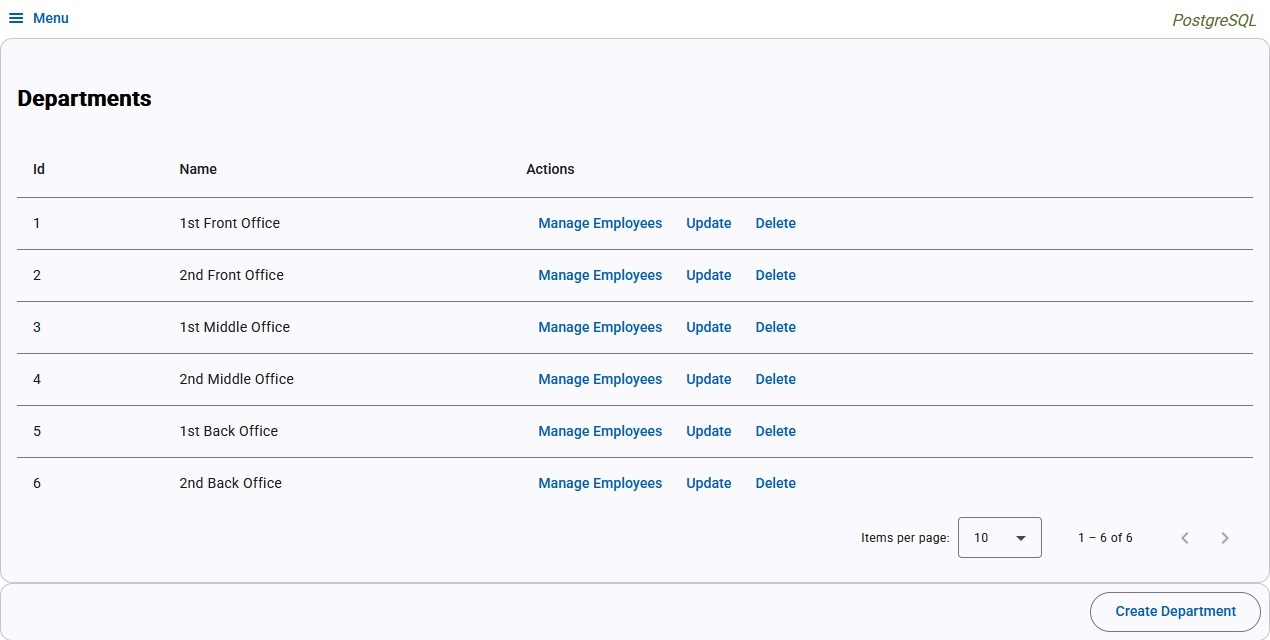
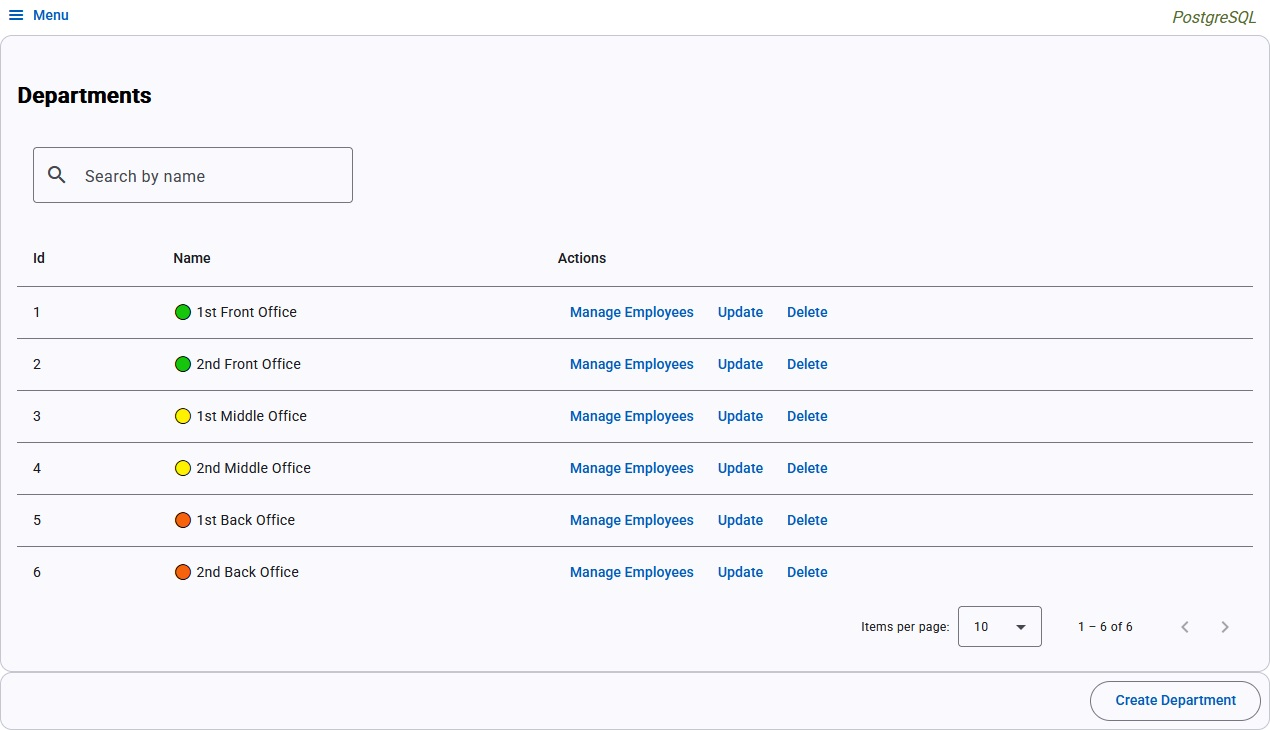
-

diff --git a/src/app/manage/tables/department-table/department-table.component.ts b/src/app/manage/tables/department-table/department-table.component.ts
@@ -12,6 +12,7 @@ import { FormsModule } from '@angular/forms';
 
 import { Department } from 'models/department';
 import { DepartmentDataSource } from './department-datasource';
+import { AppTools } from '../../../app.tools';
 /**
  * DepartmentTableComponent is a component that displays a table of departments.
  * It uses Angular Material's table features to display, sort, and paginate the
@@ -44,6 +45,7 @@ export class DepartmentTableComponent implements AfterViewInit {
   @ViewChild(MatSort) sort!: MatSort;
   @ViewChild(MatTable) table!: MatTable<Department>;
   dataSource = new DepartmentDataSource();
+  appTools = new AppTools();
   displayedColumns = ['id', 'name', 'actions'];
   /** Local input model for the search box */
   filterText = '';

diff --git a/src/app/app.tools.ts b/src/app/app.tools.ts
@@ -1,0 +1,20 @@
+/**
+ * Application tools.
+ */
+export class AppTools {
+  /**
+   * Display department name.
+   * @param departmentName the department name
+   */
+  displayDepartmentName(departmentName: string): string {
+    if(departmentName.toLowerCase().includes('front office')) {
+        return '🟢 ' + departmentName;
+    } else if(departmentName.toLowerCase().includes('middle office')) {
+        return '🟡 ' + departmentName;
+    } else if(departmentName.toLowerCase().includes('back office')) {
+        return '🟠 ' + departmentName;
+    } else {
+        return '🟣 ' + departmentName;
+    }
+  }
+}

diff --git a/src/app/manage/tables/department-table/department-table.component.html b/src/app/manage/tables/department-table/department-table.component.html
@@ -27,7 +27,9 @@
         </ng-container>
         <ng-container matColumnDef="name">
           <th mat-header-cell *matHeaderCellDef mat-sort-header>Name</th>
-          <td mat-cell *matCellDef="let row">{{row.name}}</td>
+          <td mat-cell *matCellDef="let row">
+            {{ appTools.displayDepartmentName(row.name) }}
+          </td>
         </ng-container>
         <ng-container matColumnDef="actions">
           <th mat-header-cell *matHeaderCellDef mat-header>Actions</th>

diff --git a/docs/mermaid/classDiagram.md b/docs/mermaid/classDiagram.md
@@ -1,0 +1,37 @@
+```mermaid
+classDiagram
+direction TD
+class Department {
+ +id: number
+ +name: string
+ +employees: Employee[]
+ +startDate?: Date
+ +endDate?: Date
+ +notes?: string
+ +keywords?: string[]
+ +image?: string
+}
+class Employee {
+ +id: number
+ +departmentId: number
+ +firstName: string
+ +lastName: string
+ +title: Title
+ +phone: string
+ +mail: string
+ +streetName?: string
+ +houseNumber?: string
+ +postalCode?: string
+ +locality?: string
+ +province?: string
+ +country?: string
+}
+class Title {
+ <<enumeration>>
+ Manager
+ Analyst
+ Developer
+}
+Department o-- Employee  : employees
+Employee --> Title : title
+```
